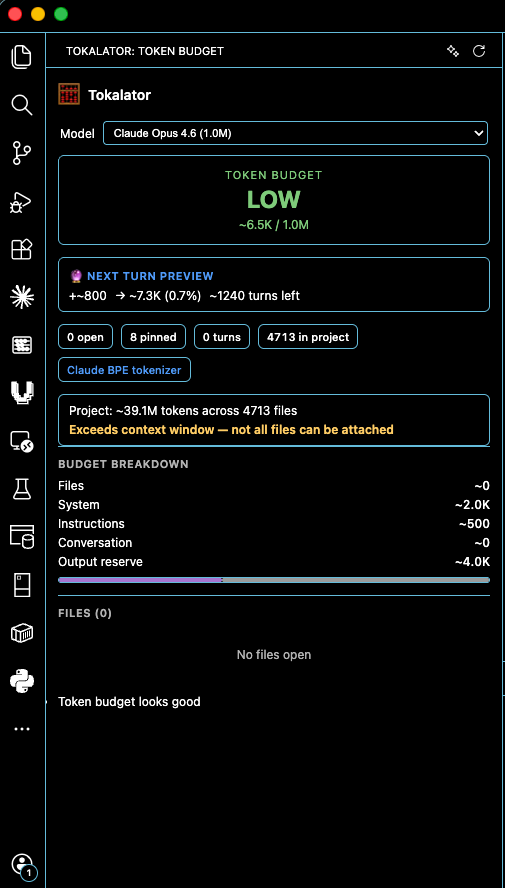
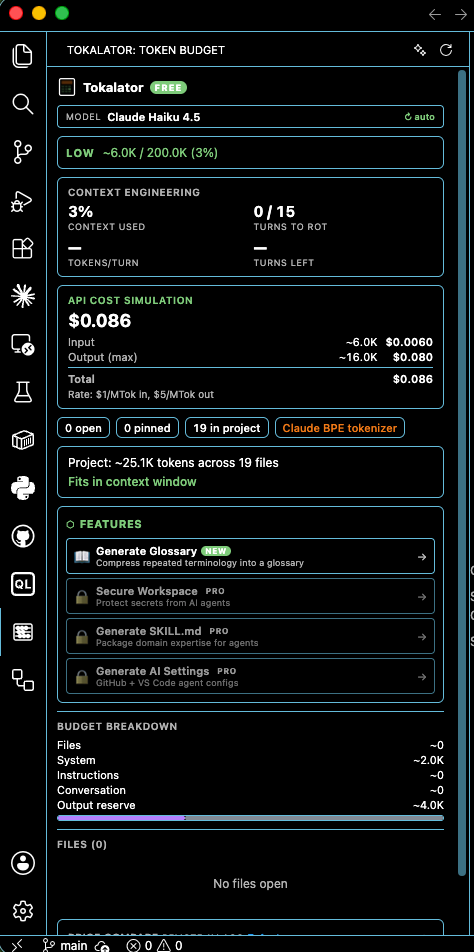
Website: replace screenshots with current 3.1.7 dashboard captures
Swap deleted placeholder screenshots for the new sidebar dashboard
(Context Engineering stats, API Cost Simulation, budget breakdown) and a
full VS Code view. Fix Image dimensions to match (474x952 portrait,
1454x959 landscape). Drop the two chat-command figures (no current
capture); accurate alt/captions.

Entire-Checkpoint: ad4d35873eda

Changed region(s): [[0.0, 0.0, 1.0, 1.0], [0.443, 0.9122, 0.5907, 0.9426], [0.2658, 0.973, 0.384, 1.0]]

diff --git a/app/extension/page.tsx b/app/extension/page.tsx
@@ -164,37 +164,25 @@ export default function ExtensionPage() {
           <motion.figure {...scrollReveal(0)} style={{ margin: 0 }}>
             <Image
               src="/screenshots/tokalator-ui.png"
-              alt="Tokalator sidebar dashboard showing token budget, next turn preview, and budget breakdown"
-              width={800}
-              height={600}
+              alt="Tokalator sidebar dashboard showing Context Engineering stats, API Cost Simulation, and budget breakdown"
+              width={474}
+              height={952}
               style={{ width: "100%", height: "auto", borderRadius: "6px", border: "1px solid var(--border)", display: "block" }}
             />
             <figcaption style={{ marginTop: "0.5rem", fontSize: "0.75rem", color: "var(--text-muted)" }}>
-              Sidebar dashboard — live token budget, next turn preview, and budget breakdown
+              Sidebar dashboard — Context Engineering stats, API Cost Simulation, and budget breakdown
             </figcaption>
           </motion.figure>
           <motion.figure {...scrollReveal(0.1)} style={{ margin: 0 }}>
             <Image
-              src="/screenshots/tokalator-breakdown.png"
-              alt="Tokalator /breakdown command in chat showing file token counts and relevance scores"
-              width={800}
-              height={600}
+              src="/screenshots/tokalator-ide.png"
+              alt="Tokalator running in VS Code — token budget sidebar alongside the editor"
+              width={1454}
+              height={959}
               style={{ width: "100%", height: "auto", borderRadius: "6px", border: "1px solid var(--border)", display: "block" }}
             />
             <figcaption style={{ marginTop: "0.5rem", fontSize: "0.75rem", color: "var(--text-muted)" }}>
-              @tokalator /breakdown — per-file token counts and relevance scores in chat
-            </figcaption>
-          </motion.figure>
-          <motion.figure {...scrollReveal(0.2)} style={{ margin: 0 }}>
-            <Image
-              src="/screenshots/tokalator-commands.png"
-              alt="Tokalator chat command autocomplete showing all @tokalator slash commands"
-              width={800}
-              height={600}
-              style={{ width: "100%", height: "auto", borderRadius: "6px", border: "1px solid var(--border)", display: "block" }}
-            />
-            <figcaption style={{ marginTop: "0.5rem", fontSize: "0.75rem", color: "var(--text-muted)" }}>
-              12 chat commands via @tokalator — full context management workflow
+              Tokalator in VS Code — context budget sidebar alongside your editor
             </figcaption>
           </motion.figure>
         </div>

diff --git a/app/page.tsx b/app/page.tsx
@@ -211,9 +211,9 @@ export default function HomePage() {
         >
           <Image
             src="/screenshots/tokalator-ui.png"
-            alt="Tokalator token budget dashboard in VS Code — LOW budget, next turn preview, budget breakdown"
-            width={840}
-            height={560}
+            alt="Tokalator token budget dashboard in VS Code — LOW budget, Context Engineering stats, budget breakdown"
+            width={474}
+            height={952}
             style={{ width: "100%", height: "auto", borderRadius: "8px", border: "1px solid var(--border)", display: "block" }}
           />
         </motion.div>
